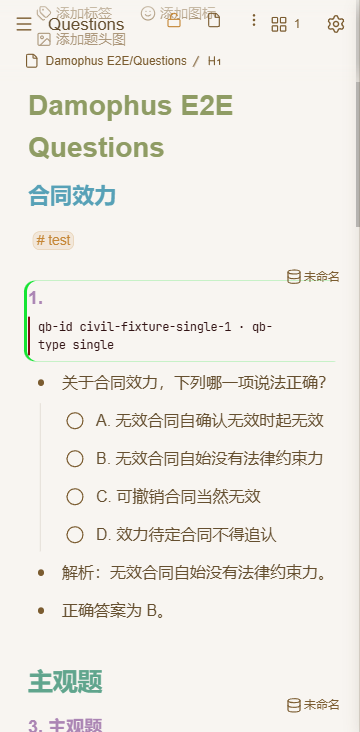
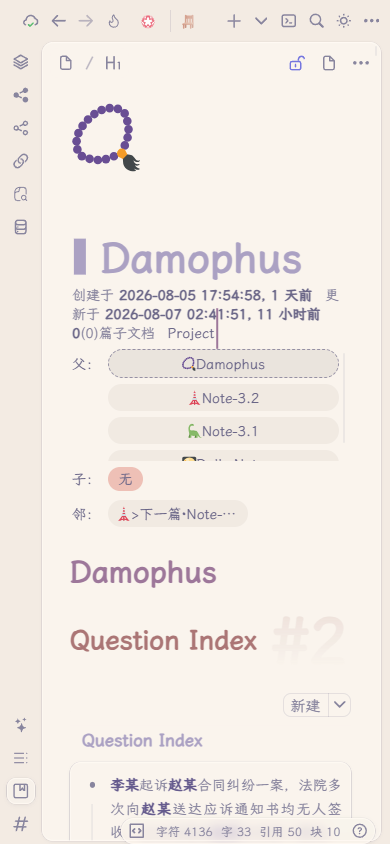
docs: fix README badges and mobile breadcrumb screenshot

diff --git a/README.md b/README.md
@@ -4,20 +4,16 @@
 
 Damophus 是一个自用的思源增强插件，集中实现现有工具没有同时覆盖、或难以直接组合的个人工作流。目前主要包含两部分：让 Markdown 题源进入扫描、索引、练习与恢复流程，以及改善移动端标题栏、面包屑和顶部玻璃表面的可用性。
 
-<p align="center">
-  <a href="https://github.com/HibernalGlow/siyuan-damophus"><img src="https://img.shields.io/badge/GitHub-HibernalGlow%2Fsiyuan--damophus-14211f?logo=github&logoColor=white" alt="GitHub repository"></a>
-  <a href="https://github.com/HibernalGlow/siyuan-damophus/commits/main"><img src="https://img.shields.io/github/last-commit/HibernalGlow/siyuan-damophus?label=Last%20commit&color=7aa69a" alt="Last commit"></a>
-  <a href="./LICENSE"><img src="https://img.shields.io/badge/License-WTFPL-d7ad5c" alt="WTFPL license"></a>
-  <img src="https://img.shields.io/badge/SiYuan-%E2%89%A53.7.0-e0644d" alt="SiYuan 3.7.0 or newer">
-  <img src="https://img.shields.io/badge/Status-Self--use-7aa69a" alt="Self-use project">
-</p>
+[![GitHub repository](https://img.shields.io/badge/GitHub-HibernalGlow%2Fsiyuan--damophus-14211f?logo=github&logoColor=white)](https://github.com/HibernalGlow/siyuan-damophus)
+[![Last commit](https://img.shields.io/github/last-commit/HibernalGlow/siyuan-damophus?label=Last%20commit&color=7aa69a)](https://github.com/HibernalGlow/siyuan-damophus/commits/main)
+[![WTFPL license](https://img.shields.io/badge/License-WTFPL-d7ad5c)](./LICENSE)
+![SiYuan 3.7.0 or newer](https://img.shields.io/badge/SiYuan-%E2%89%A53.7.0-e0644d)
+![Self-use project](https://img.shields.io/badge/Status-Self--use-7aa69a)
 
-<p align="center">
-  <a href="https://svelte.dev/"><img src="https://img.shields.io/badge/Svelte-5-ff3e00?logo=svelte&logoColor=white" alt="Svelte 5"></a>
-  <a href="https://www.typescriptlang.org/"><img src="https://img.shields.io/badge/TypeScript-6-3178c6?logo=typescript&logoColor=white" alt="TypeScript 6"></a>
-  <a href="https://vite.dev/"><img src="https://img.shields.io/badge/Vite-8-646cff?logo=vite&logoColor=white" alt="Vite 8"></a>
-  <a href="https://vitest.dev/"><img src="https://img.shields.io/badge/Vitest-4-6e9f18?logo=vitest&logoColor=white" alt="Vitest 4"></a>
-</p>
+[![Svelte 5](https://img.shields.io/badge/Svelte-5-ff3e00?logo=svelte&logoColor=white)](https://svelte.dev/)
+[![TypeScript 6](https://img.shields.io/badge/TypeScript-6-3178c6?logo=typescript&logoColor=white)](https://www.typescriptlang.org/)
+[![Vite 8](https://img.shields.io/badge/Vite-8-646cff?logo=vite&logoColor=white)](https://vite.dev/)
+[![Vitest 4](https://img.shields.io/badge/Vitest-4-6e9f18?logo=vitest&logoColor=white)](https://vitest.dev/)
 
 <p align="center">
   <a href="#它解决什么">定位</a> ·
